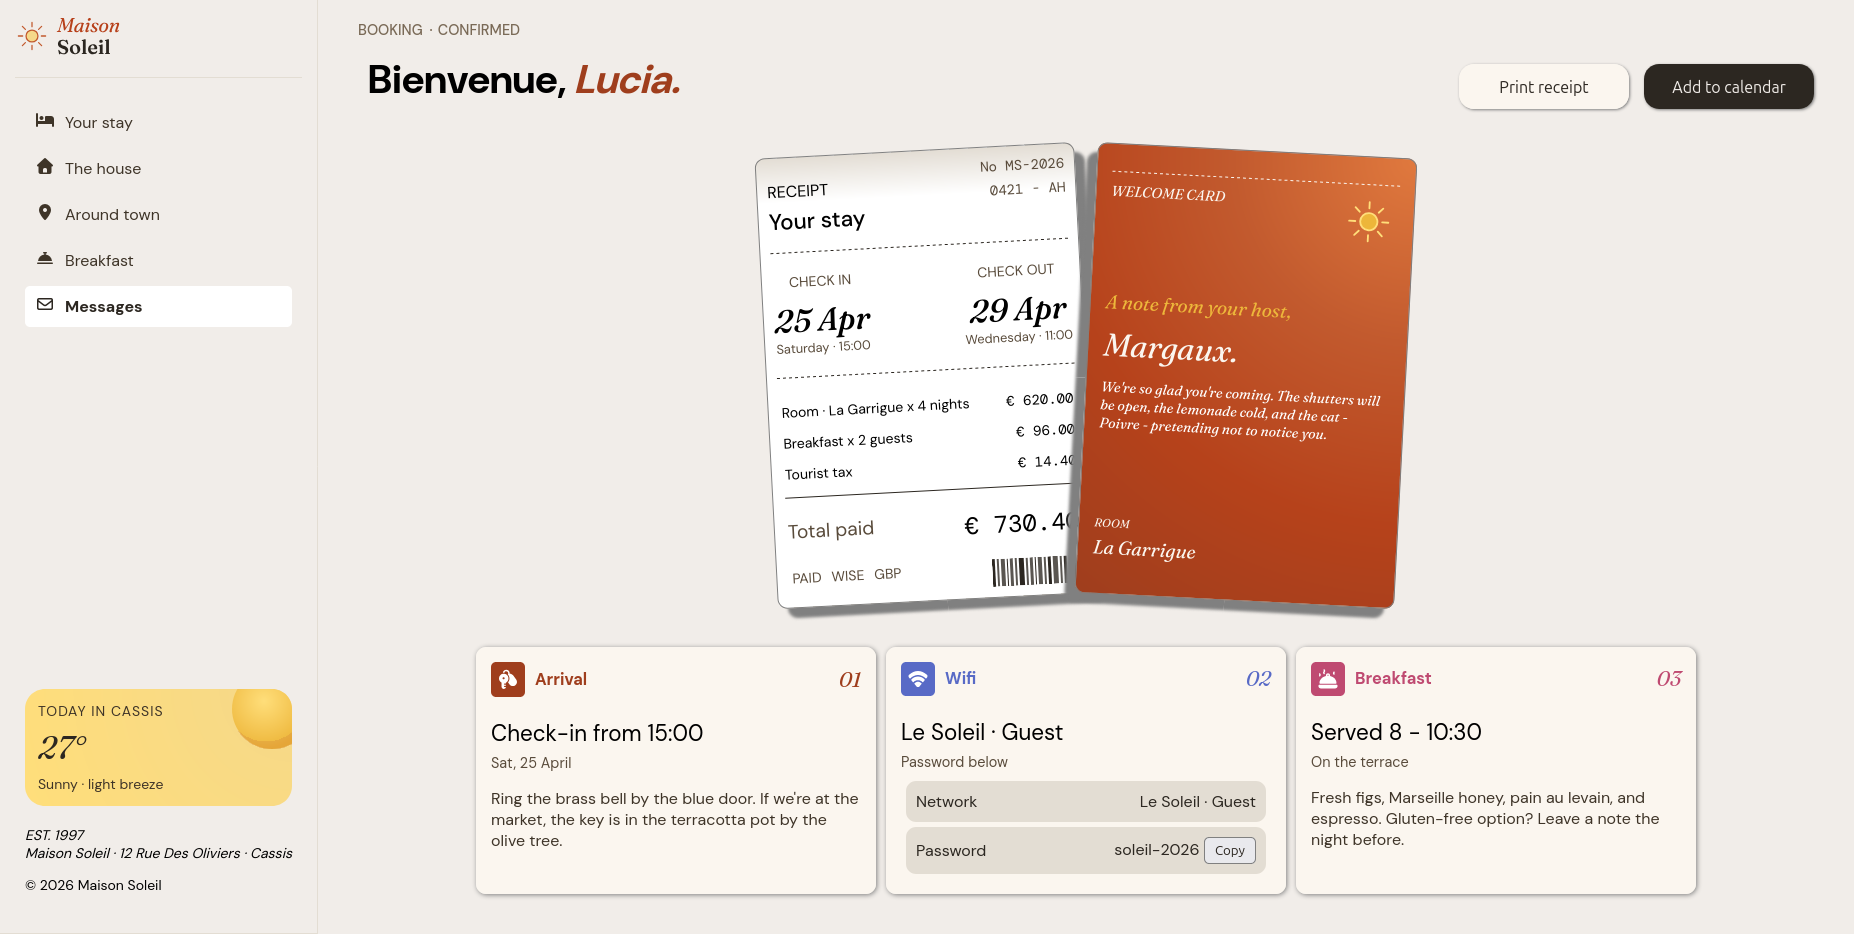
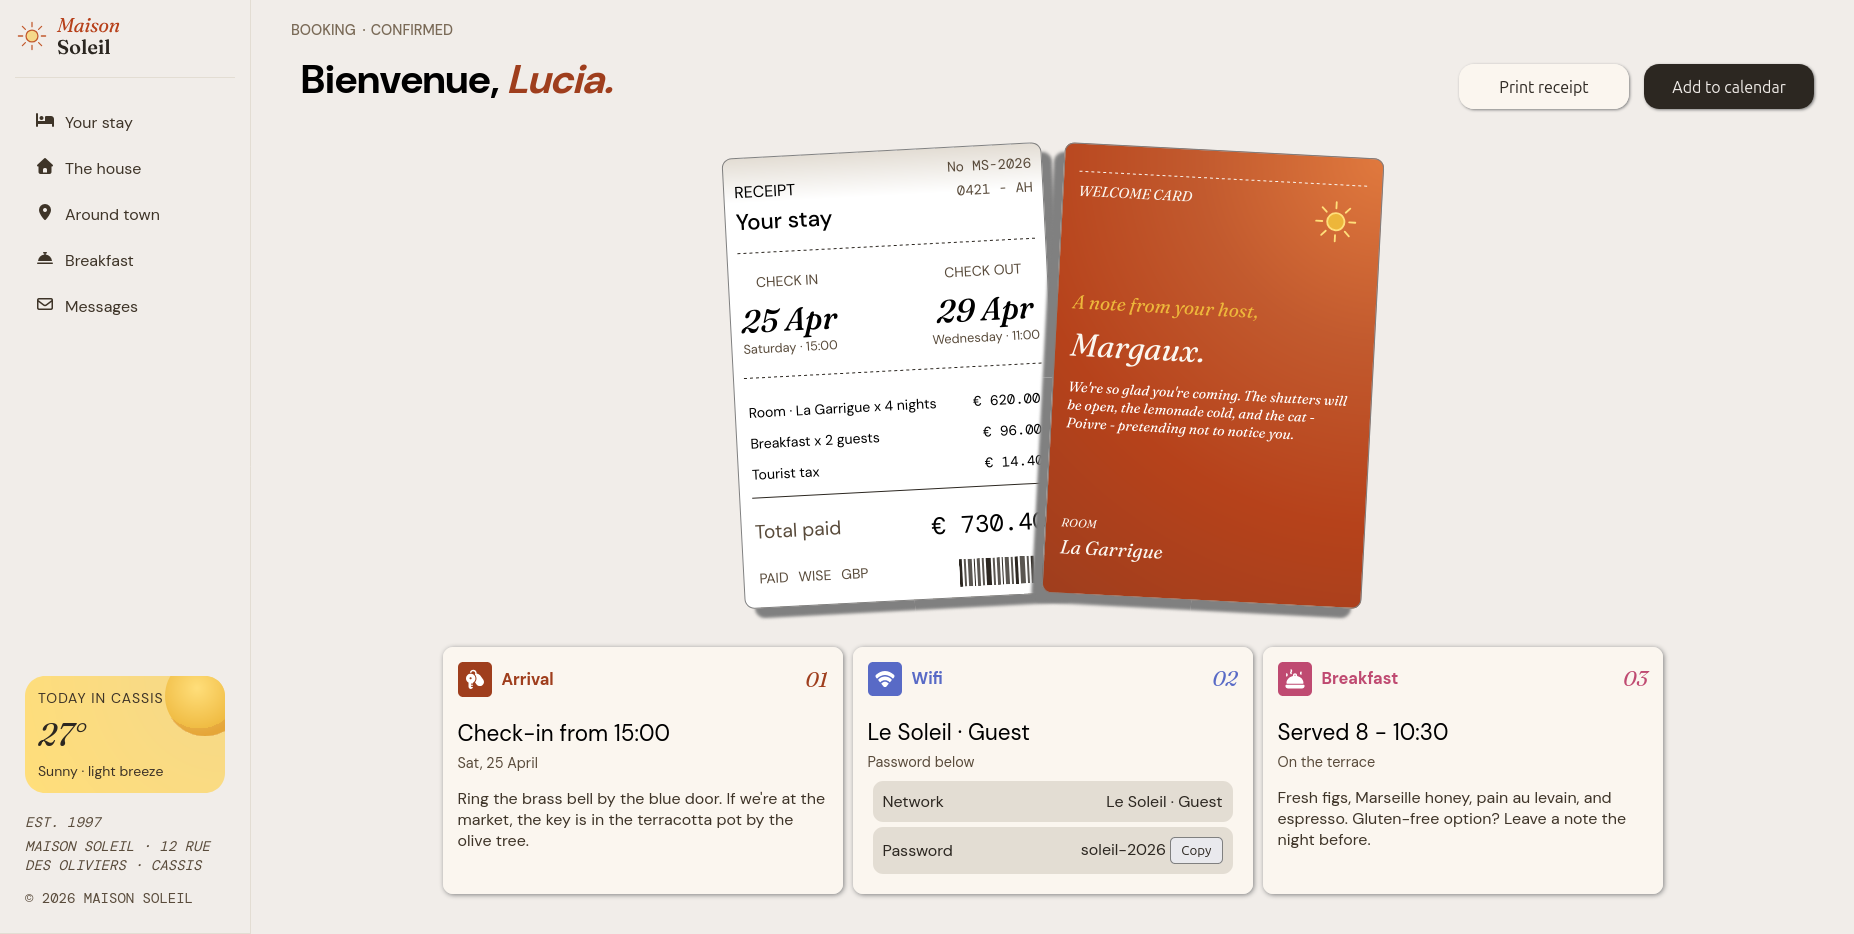
fix menu bottom

diff --git a/index.html b/index.html
@@ -40,7 +40,7 @@
                         <p class="weather-degrees">27°</p>
                         <p class="weather-description">Sunny <span aria-hidden="true">·</span> light breeze</p>
                     </section>
-                    <section>
+                    <section class="bottom">
                         <address>
                             EST. 1997<br>
                             <span>Maison Soleil <span aria-hidden="true">·</span> 12 Rue Des Oliviers <span

diff --git a/src/index.css b/src/index.css
@@ -219,18 +219,18 @@ button:hover {
     color: var(--Neutral-900);
 }
 
-footer {
+#menu .bottom {
     color: var(--Neutral-700);
     font-family: dm-mono, sans-serif;
-    max-width: 300px;
+    max-width: 200px;
     text-transform: uppercase;
 }
 
-footer br {
+#menu br {
     margin-bottom: 5px;
 }
 
-footer .copyright {
+#menu .copyright {
     margin-bottom: 0;
 }
 
